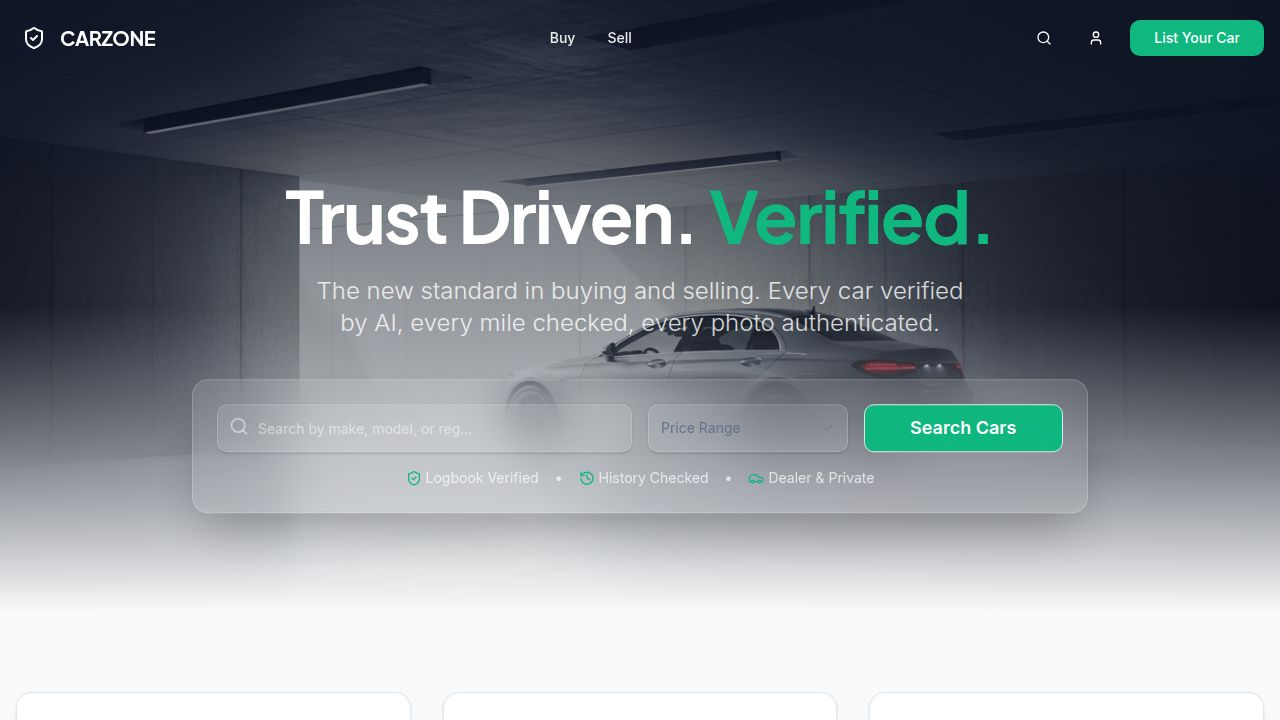
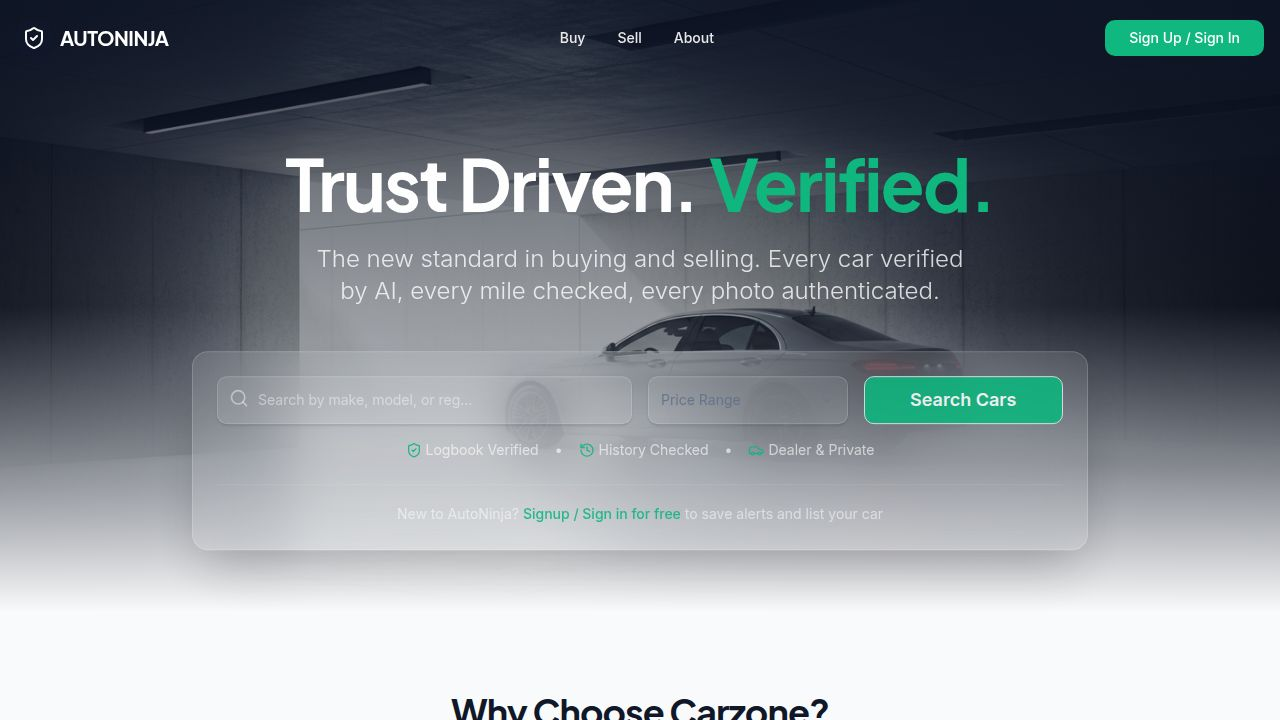
Rebrand website and update navigation to include About page and signup/sign-in flow
Adds an About page with company information and updates the navigation bar to replace the "Sign In" button with an "About" link and a "Sign Up / Sign In" button, also rebranding the site to "AutoNinja".

Replit-Commit-Author: Agent
Replit-Commit-Session-Id: b42b4e2e-02a0-48d3-983e-104a2b8bbf56
Replit-Commit-Checkpoint-Type: full_checkpoint
Replit-Commit-Event-Id: 3cc72a71-c8b5-4ea7-9541-c376ad3aa05c
Replit-Commit-Screenshot-Url: https://storage.googleapis.com/screenshot-production-us-central1/e894dc0f-5848-4a09-a3a4-997090c1a153/b42b4e2e-02a0-48d3-983e-104a2b8bbf56/55yPrXJ
Replit-Helium-Checkpoint-Created: true

diff --git a/client/src/pages/About.tsx b/client/src/pages/About.tsx
@@ -1,0 +1,119 @@
+import { motion } from "framer-motion";
+import { ShieldCheck, Users, Heart, Mail, Target, Zap } from "lucide-react";
+
+export default function About() {
+  return (
+    <div className="min-h-screen bg-muted/10 pt-24 pb-12">
+      <div className="container max-w-4xl mx-auto px-4">
+        {/* Hero */}
+        <motion.div
+          initial={{ opacity: 0, y: 20 }}
+          animate={{ opacity: 1, y: 0 }}
+          transition={{ duration: 0.5 }}
+          className="text-center mb-16"
+        >
+          <div className="flex items-center justify-center gap-3 mb-6">
+            <div className="bg-primary text-white p-3 rounded-xl">
+              <ShieldCheck className="w-10 h-10" />
+            </div>
+            <h1 className="text-4xl md:text-5xl font-heading font-bold text-primary">AutoNinja</h1>
+          </div>
+          <p className="text-xl text-muted-foreground max-w-2xl mx-auto">
+            Transforming the used car industry with trust, transparency, and technology.
+          </p>
+        </motion.div>
+
+        {/* Our Values */}
+        <motion.section
+          initial={{ opacity: 0, y: 20 }}
+          animate={{ opacity: 1, y: 0 }}
+          transition={{ duration: 0.5, delay: 0.1 }}
+          className="mb-16"
+        >
+          <h2 className="text-2xl font-heading font-bold mb-8 text-center">Our Values</h2>
+          <div className="grid md:grid-cols-3 gap-6">
+            <div className="bg-white p-6 rounded-2xl border border-border shadow-sm">
+              <div className="w-12 h-12 bg-accent/10 rounded-xl flex items-center justify-center mb-4">
+                <ShieldCheck className="w-6 h-6 text-accent" />
+              </div>
+              <h3 className="text-lg font-semibold mb-2">Trust First</h3>
+              <p className="text-muted-foreground text-sm">
+                Every vehicle is verified. Every seller is accountable. We believe trust is the foundation of every great transaction.
+              </p>
+            </div>
+            <div className="bg-white p-6 rounded-2xl border border-border shadow-sm">
+              <div className="w-12 h-12 bg-accent/10 rounded-xl flex items-center justify-center mb-4">
+                <Target className="w-6 h-6 text-accent" />
+              </div>
+              <h3 className="text-lg font-semibold mb-2">Transparency</h3>
+              <p className="text-muted-foreground text-sm">
+                No hidden surprises. Complete vehicle history, verified mileage, and authentic photos for every listing.
+              </p>
+            </div>
+            <div className="bg-white p-6 rounded-2xl border border-border shadow-sm">
+              <div className="w-12 h-12 bg-accent/10 rounded-xl flex items-center justify-center mb-4">
+                <Zap className="w-6 h-6 text-accent" />
+              </div>
+              <h3 className="text-lg font-semibold mb-2">Innovation</h3>
+              <p className="text-muted-foreground text-sm">
+                AI-powered verification, smart alerts, and cutting-edge technology to make car buying seamless.
+              </p>
+            </div>
+          </div>
+        </motion.section>
+
+        {/* Team */}
+        <motion.section
+          initial={{ opacity: 0, y: 20 }}
+          animate={{ opacity: 1, y: 0 }}
+          transition={{ duration: 0.5, delay: 0.2 }}
+          className="mb-16"
+        >
+          <h2 className="text-2xl font-heading font-bold mb-8 text-center">Our Team</h2>
+          <div className="bg-white p-8 rounded-2xl border border-border shadow-sm">
+            <div className="flex items-center gap-4 mb-6">
+              <div className="w-16 h-16 bg-primary/10 rounded-full flex items-center justify-center">
+                <Users className="w-8 h-8 text-primary" />
+              </div>
+              <div>
+                <h3 className="text-xl font-semibold">Built by Car Enthusiasts</h3>
+                <p className="text-muted-foreground">For car buyers and sellers everywhere</p>
+              </div>
+            </div>
+            <p className="text-muted-foreground leading-relaxed">
+              AutoNinja was founded by a team of passionate car enthusiasts and technology experts 
+              who were frustrated with the lack of trust and transparency in the used car market. 
+              We've combined our love for cars with cutting-edge AI technology to create a platform 
+              where buyers can shop with confidence and sellers can reach genuine customers.
+            </p>
+          </div>
+        </motion.section>
+
+        {/* Contact */}
+        <motion.section
+          initial={{ opacity: 0, y: 20 }}
+          animate={{ opacity: 1, y: 0 }}
+          transition={{ duration: 0.5, delay: 0.3 }}
+        >
+          <h2 className="text-2xl font-heading font-bold mb-8 text-center">Customer Support</h2>
+          <div className="bg-accent/5 border border-accent/20 p-8 rounded-2xl text-center">
+            <div className="w-16 h-16 bg-accent/10 rounded-full flex items-center justify-center mx-auto mb-4">
+              <Mail className="w-8 h-8 text-accent" />
+            </div>
+            <h3 className="text-xl font-semibold mb-2">Need Help?</h3>
+            <p className="text-muted-foreground mb-4">
+              Our customer support team is here to assist you with any questions or concerns.
+            </p>
+            <a 
+              href="mailto:customersupport@autoninja.com" 
+              className="text-accent hover:text-accent/80 font-medium text-lg"
+              data-testid="link-support-email"
+            >
+              customersupport@autoninja.com
+            </a>
+          </div>
+        </motion.section>
+      </div>
+    </div>
+  );
+}

diff --git a/client/src/pages/AuthPage.tsx b/client/src/pages/AuthPage.tsx
@@ -92,13 +92,13 @@ export default function AuthPage() {
           <div className="text-white text-center px-12">
             <div className="flex items-center justify-center gap-3 mb-6">
               <ShieldCheck className="h-12 w-12 text-accent" />
-              <span className="text-4xl font-heading font-bold">Carzone</span>
+              <span className="text-4xl font-heading font-bold">AutoNinja</span>
             </div>
             <h2 className="text-3xl font-heading font-bold mb-4">
               Trust Driven. <span className="text-accent">Verified.</span>
             </h2>
             <p className="text-lg text-white/80">
-              Join thousands of buyers and sellers who trust Carzone for verified, transparent car transactions.
+              Join thousands of buyers and sellers who trust AutoNinja for verified, transparent car transactions.
             </p>
           </div>
         </div>
@@ -115,7 +115,7 @@ export default function AuthPage() {
           {/* Mobile Logo */}
           <div className="lg:hidden flex items-center justify-center gap-2 mb-8">
             <ShieldCheck className="h-8 w-8 text-accent" />
-            <span className="text-2xl font-heading font-bold text-primary">Carzone</span>
+            <span className="text-2xl font-heading font-bold text-primary">AutoNinja</span>
           </div>
 
           <Card className="border-0 shadow-xl">

diff --git a/client/src/components/layout/Navbar.tsx b/client/src/components/layout/Navbar.tsx
@@ -39,9 +39,11 @@ export default function Navbar() {
     { href: "/search", label: "Buy" },
     { href: "/sell", label: "Sell" },
     { href: "/alerts", label: "My Alerts" },
+    { href: "/about", label: "About" },
   ] : [
     { href: "/search", label: "Buy" },
     { href: "/sell", label: "Sell" },
+    { href: "/about", label: "About" },
   ];
 
   return (
@@ -63,7 +65,7 @@ export default function Navbar() {
               "font-heading font-bold text-xl tracking-tight transition-colors", 
               isHome && !scrolled ? "text-white" : "text-foreground"
             )}>
-              CARZONE
+              AUTONINJA
             </span>
         </Link>
 
@@ -129,7 +131,7 @@ export default function Navbar() {
                 onClick={() => setAuthModalOpen(true)}
                 className="bg-accent hover:bg-accent/90 text-white border-0 font-medium px-6"
               >
-                Sign In
+                Sign Up / Sign In
               </Button>
               <AuthModal open={authModalOpen} onOpenChange={setAuthModalOpen} />
             </>

diff --git a/client/src/pages/Landing.tsx b/client/src/pages/Landing.tsx
@@ -85,12 +85,12 @@ export default function Landing() {
               <span className="flex items-center gap-1"><Car className="w-4 h-4 text-accent" /> Dealer & Private</span>
             </div>
             <div className="mt-6 pt-4 border-t border-white/10 text-center">
-              <span className="text-white/60 text-sm">New to Carzone? </span>
+              <span className="text-white/60 text-sm">New to AutoNinja? </span>
               <button 
                 onClick={() => setAuthModalOpen(true)} 
                 className="text-accent hover:text-accent/80 text-sm font-medium"
               >
-                Sign up for free
+                Signup / Sign in for free
               </button>
               <span className="text-white/60 text-sm"> to save alerts and list your car</span>
             </div>

diff --git a/client/src/components/ui/AuthModal.tsx b/client/src/components/ui/AuthModal.tsx
@@ -98,7 +98,7 @@ export default function AuthModal({ open, onOpenChange }: AuthModalProps) {
         <div className="bg-primary p-6 text-white text-center">
           <div className="flex items-center justify-center gap-2 mb-2">
             <ShieldCheck className="h-8 w-8 text-accent" />
-            <span className="text-2xl font-heading font-bold">Carzone</span>
+            <span className="text-2xl font-heading font-bold">AutoNinja</span>
           </div>
           <DialogDescription className="text-white/80">
             Sign in to save alerts and list your car

diff --git a/client/src/pages/Home.tsx b/client/src/pages/Home.tsx
@@ -35,7 +35,7 @@ export default function Home() {
               Trust Driven. <span className="text-accent">Verified.</span>
             </h1>
             <p className="text-xl md:text-2xl text-white/80 max-w-2xl mx-auto mb-10 font-light">
-              The new standard in buying and selling. Every car verified by AI, every mile checked, every photo authenticated.
+              The new standard in buying and selling used cars. Every car verified by AI, every mile checked, every photo authenticated.
             </p>
           </motion.div>
 

diff --git a/client/src/App.tsx b/client/src/App.tsx
@@ -12,6 +12,7 @@ import Listing from "@/pages/Listing";
 import Sell from "@/pages/Sell";
 import MyAlerts from "@/pages/MyAlerts";
 import AuthPage from "@/pages/AuthPage";
+import About from "@/pages/About";
 import NotFound from "@/pages/not-found";
 
 function Router() {
@@ -20,6 +21,7 @@ function Router() {
   return (
     <Switch>
       <Route path="/auth" component={AuthPage} />
+      <Route path="/about" component={About} />
       {isLoading || !isAuthenticated ? (
         <>
           <Route path="/" component={Landing} />
